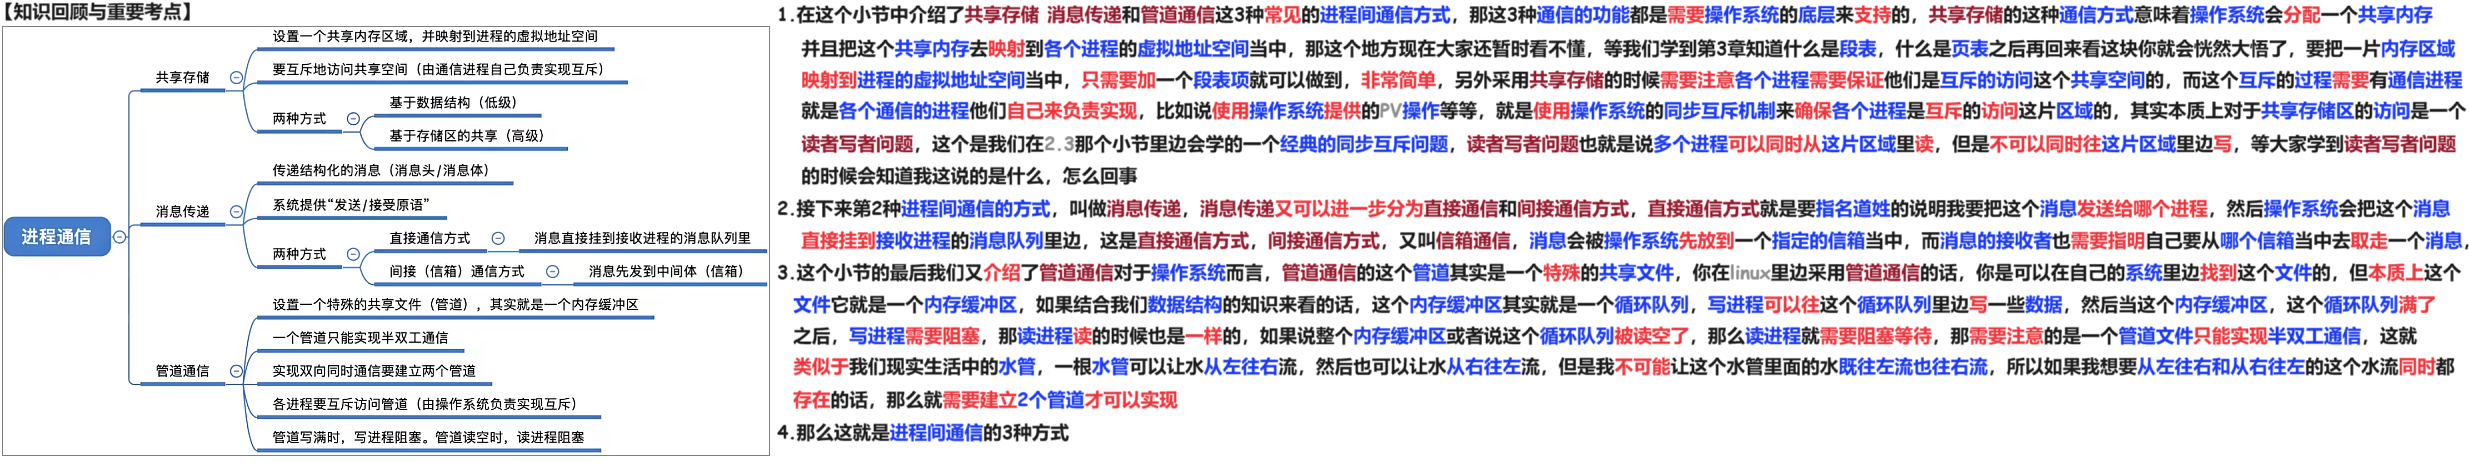
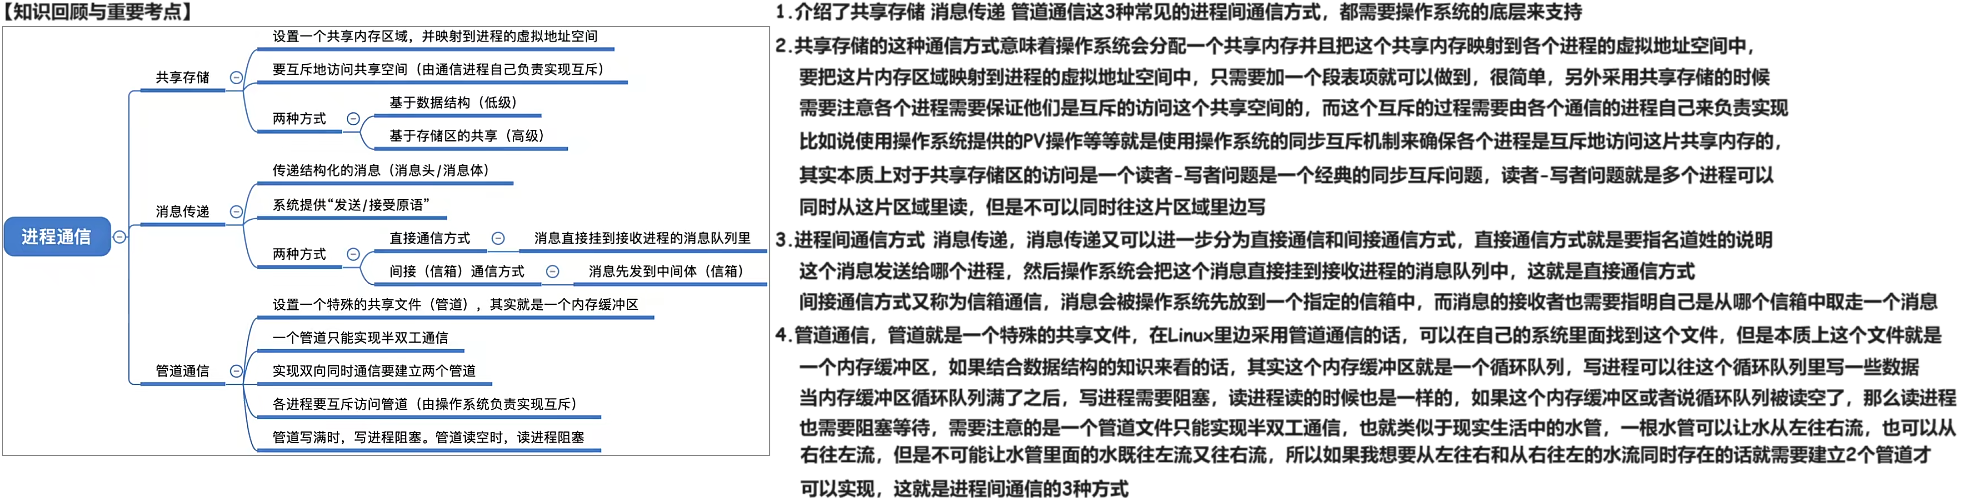
240529

diff --git a/01 初试/01 OS/02 24 25 王道/01 基础/02 进程 线程/01 进程 线程/04 进程通信 IPC 240529/02 消化/02 Doc.md b/01 初试/01 OS/02 24 25 王道/01 基础/02 进程 线程/01 进程 线程/04 进程通信 IPC 240529/02 消化/02 Doc.md
@@ -52,7 +52,7 @@
 
 # 09 知识回顾与重要考点
 
-<img src="https://cvp.oss-cn-shanghai.aliyuncs.com/picgo/202405121050504.png" alt="image-20240512105001318" style="zoom:50%;" />
+<img src="https://cvp.oss-cn-shanghai.aliyuncs.com/picgo/202405291719925.png" alt="image-20240529171946500" style="zoom:50%;" />
 
 
 
